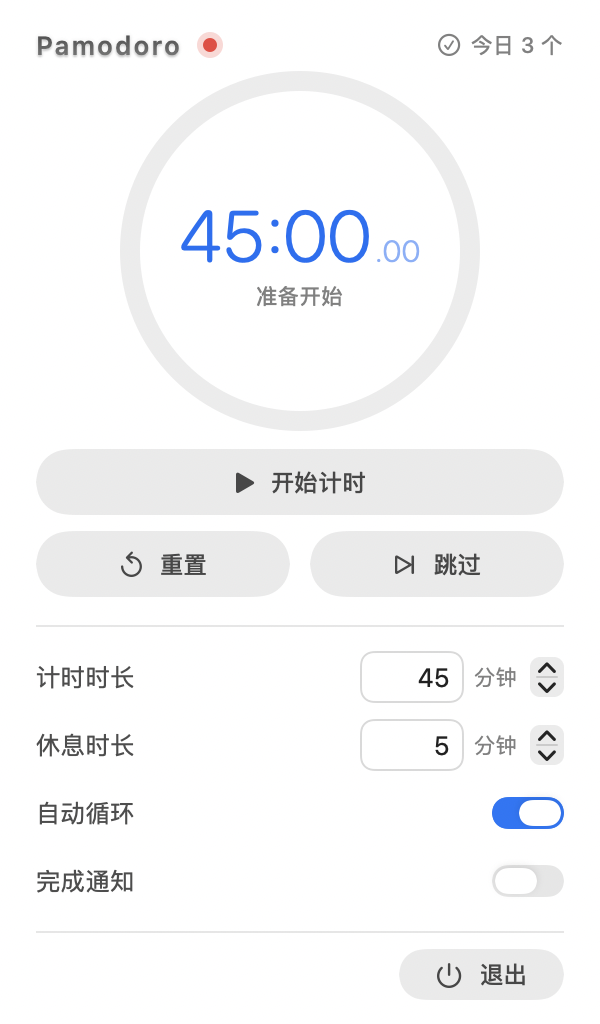
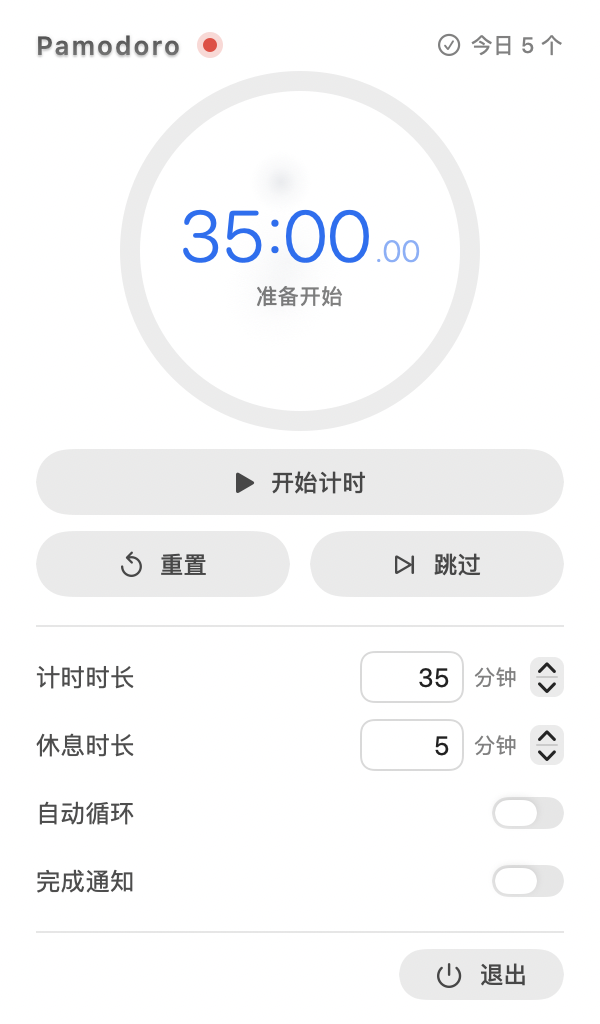
表盘加水银液体动效；计时步进器步长改为 5 分钟

diff --git a/Sources/DialLiquid.swift b/Sources/DialLiquid.swift
@@ -1,0 +1,50 @@
+import SwiftUI
+
+/// 表盘里的「水银」效果：几团半透明液体在圆盘内缓慢游走，若隐若现。
+/// 用 TimelineView 驱动，不依赖 @State（swiftc 直连编译时 SwiftUI 宏不可用）。
+struct DialLiquid: View {
+
+    @Environment(\.colorScheme) private var colorScheme
+
+    var body: some View {
+        TimelineView(.animation(minimumInterval: 1.0 / 30.0)) { timeline in
+            let t = timeline.date.timeIntervalSinceReferenceDate
+            Canvas { context, size in
+                let center = CGPoint(x: size.width / 2, y: size.height / 2)
+                let radius = min(size.width, size.height) / 2
+                let base = colorScheme == .dark
+                    ? Color(white: 0.95)
+                    : Color(red: 0.42, green: 0.47, blue: 0.55)   // 冷灰蓝，像水银
+
+                for i in 0..<3 {
+                    let phase = Double(i) * 2.4
+                    let speed = 0.13 + Double(i) * 0.05
+
+                    let dx = sin(t * speed + phase) * radius * 0.42
+                    let dy = cos(t * speed * 0.75 + phase * 1.6) * radius * 0.42
+                    let blob = radius * (0.26 + 0.08 * sin(t * 0.21 + phase))
+                    let alpha = 0.050 + 0.030 * sin(t * 0.17 + phase * 1.3)
+
+                    let gradient = Gradient(colors: [
+                        base.opacity(alpha * 2.0),
+                        base.opacity(alpha * 0.6),
+                        base.opacity(0.0),
+                    ])
+
+                    let blobCenter = CGPoint(x: center.x + dx, y: center.y + dy)
+                    let rect = CGRect(x: blobCenter.x - blob,
+                                      y: blobCenter.y - blob,
+                                      width: blob * 2, height: blob * 2)
+                    context.fill(Path(ellipseIn: rect),
+                                 with: .radialGradient(gradient,
+                                                       center: blobCenter,
+                                                       startRadius: 0,
+                                                       endRadius: blob))
+                }
+            }
+            .blur(radius: 10)
+        }
+        .clipShape(Circle())
+        .allowsHitTesting(false)
+    }
+}

diff --git a/Sources/PopoverView.swift b/Sources/PopoverView.swift
@@ -142,6 +142,8 @@ struct PopoverView: View {
             Circle()
                 .fill(Color(nsColor: .textBackgroundColor))
 
+            DialLiquid()
+
             Circle()
                 .stroke(Color.primary.opacity(hover.isHovering ? 0.14 : 0.09), lineWidth: 10)
 
@@ -244,7 +246,7 @@ struct PopoverView: View {
     private var settings: some View {
         VStack(spacing: 0) {
             row("计时时长") {
-                minutesEditor(workMinutesBinding, field: .work)
+                minutesEditor(workMinutesBinding, field: .work, step: 5)
             }
 
             row("休息时长") {
@@ -280,7 +282,7 @@ struct PopoverView: View {
     }
 
     /// 任意分钟输入：输入框（可直接键入）+ 步进器（±1 分钟），范围 1–180
-    private func minutesEditor(_ binding: Binding<Int>, field: Field) -> some View {
+    private func minutesEditor(_ binding: Binding<Int>, field: Field, step: Int = 1) -> some View {
         HStack(spacing: 6) {
             TextField("", value: binding, format: .number)
                 .focused($focusedField, equals: field)
@@ -294,7 +296,7 @@ struct PopoverView: View {
                 .font(.system(size: 11))
                 .foregroundStyle(.secondary)
 
-            Stepper("", value: binding, in: 1...180)
+            Stepper("", value: binding, in: 1...180, step: step)
                 .labelsHidden()
                 .controlSize(.small)
         }

diff --git a/README.md b/README.md
@@ -79,7 +79,8 @@ open /Applications/Pomodoro.app
 - **毫秒显示**：面板里秒后面跟两位毫秒（`29:13.99`，50fps 刷新）；状态栏仍只显示到秒
 - **点击开面板**：环形进度、大号等宽时间、胶囊按钮；右键图标可直接退出
 - **点击表盘**：直接点圆形表盘即可开始 / 暂停 / 继续（悬停时光标变手型、状态文字提示当前动作）
-- **任意时长**：计时 / 休息都是 1–180 分钟，可直接键入数字，也能用步进器 ±1 分钟微调
+- **任意时长**：计时 / 休息都是 1–180 分钟，可直接键入任意数字；
+  计时步进器每次 ±5 分钟，休息步进器每次 ±1 分钟
 - **自动循环**：一轮 = 一次计时 + 一次休息。开启时休息结束自动进入下一轮；关闭时休息结束即自动停止
 - **结束提示音**：播放内置的 `Resources/pomo-chime.mp3`（约 6 秒），响度跟随系统输出音量；
   若音频缺失会自动退回合成的电子表蜂鸣（4000 Hz「滴滴。。」）
